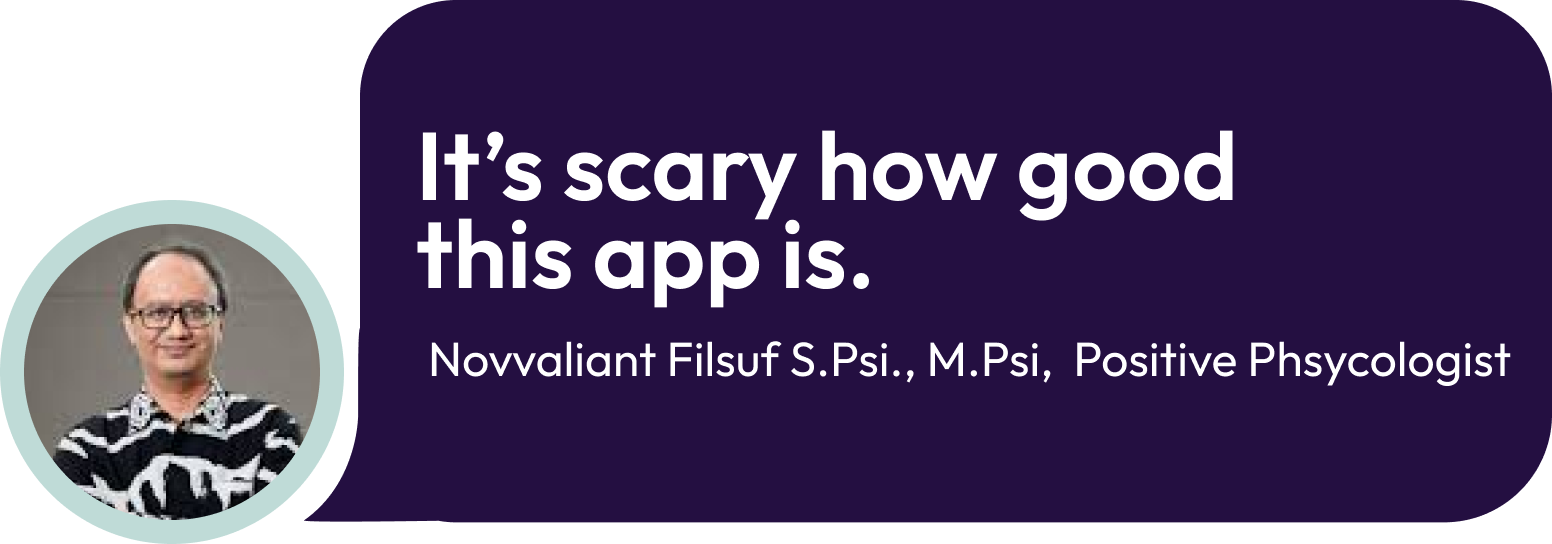
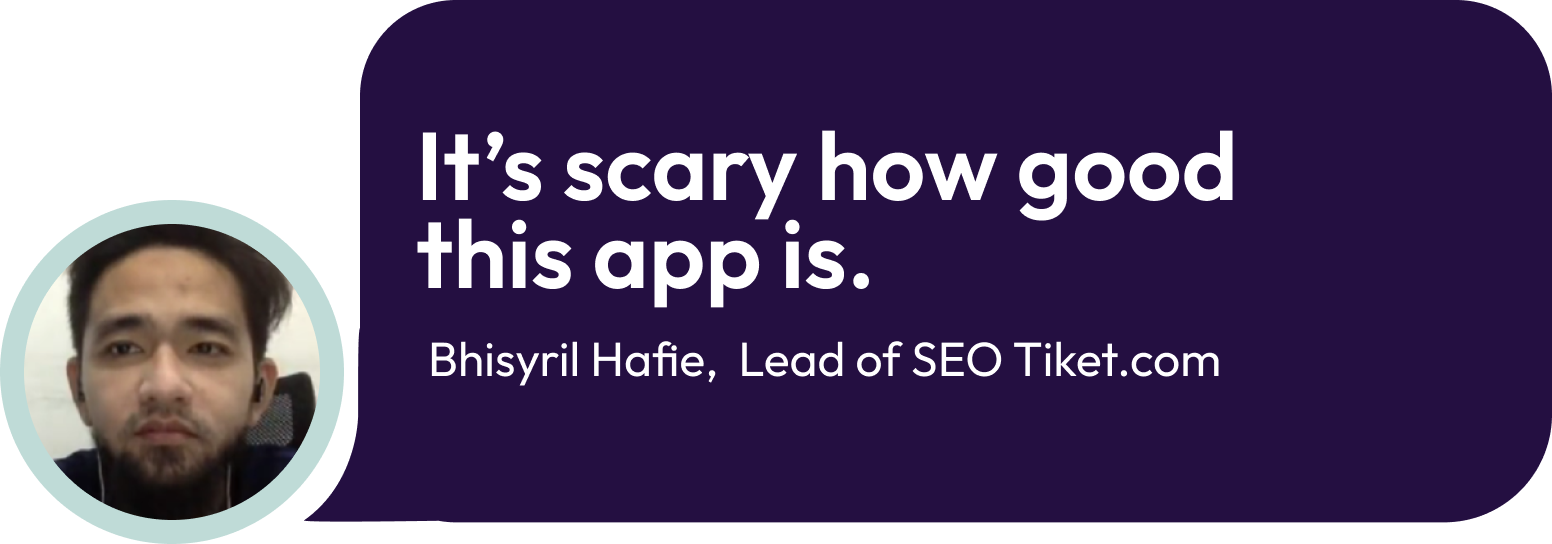
feat: build website 3

Changed region(s): [[0.0, 0.4062, 0.2165, 0.9688], [0.2784, 0.625, 0.9897, 0.7188]]

diff --git a/src/components/home/OurTheraphy.tsx b/src/components/home/OurTheraphy.tsx
@@ -7,13 +7,13 @@ import Button from "../molecules/Button";
 export default function OurTheraphy() {
   const cardData = [
     {
-      name: "Novvaliant Filsuf",
+      name: "Arief Fahmie",
       title: "Clinical Psychology",
       bgColor: "bg-gray-100",
       image: "photoTheraphy1",
     },
     {
-      name: "Dian Sari",
+      name: "Retno Kumolohadi",
       title: "Developmental Psychology",
       bgColor: "bg-blue-100",
       image: "photoTheraphy2",
@@ -25,13 +25,13 @@ export default function OurTheraphy() {
       image: "photoTheraphy3",
     },
     {
-      name: "Ahmad Rusdi",
+      name: "Indahria Sulistyarini",
       title: "Family and Marriage Psychology",
       bgColor: "bg-purple-100",
       image: "photoTheraphy4",
     },
     {
-      name: "Sonny Andrianto",
+      name: "Hariz Enggar",
       title: "Health Psychology",
       bgColor: "bg-teal-100",
       image: "photoTheraphy5",
@@ -39,28 +39,28 @@ export default function OurTheraphy() {
   ];
   const cardDataReport = [
     {
-      name: "ADHD",
-      desc: "52%",
+      name: "Stress",
+      desc: "82%",
       bgColor: "bg-gray-100",
     },
     {
       name: "Grief",
-      desc: "52%",
+      desc: "71%",
       bgColor: "bg-blue-100",
     },
     {
       name: "Depression",
-      desc: "63%",
+      desc: "94%",
       bgColor: "bg-orange-100",
     },
     {
       name: "Anxiety",
-      desc: "62%",
+      desc: "92%",
       bgColor: "bg-purple-100",
     },
     {
       name: "Anger",
-      desc: "63%",
+      desc: "76%",
       bgColor: "bg-teal-100",
     },
   ];
@@ -117,7 +117,7 @@ export default function OurTheraphy() {
         data-aos-anchor-placement="top-bottom"
         className=" text-[#5A5A5A] text-[16px] leading-[25px] mt-[2px] mb-[75px] "
       >
-        From 30 users surveyed
+        From 70 users surveyed
       </p>
       <div className="flex justify-center">
         <div className="cxl:flex hidden space-x-6 px-4">

diff --git a/src/components/molecules/BoxPricing.tsx b/src/components/molecules/BoxPricing.tsx
@@ -17,7 +17,7 @@ export default function BoxPricing({active = true, li1, li2, li3, price}:any) {
       </div>
       <div className={`px-[40px] ${active ? "mt-[40px]" : "mt-[60px]"}  `}>
         <h1 className="text-[32px] font-medium text-center mb-[9px] ">
-          Rp. {price}
+          Rp{price}
         </h1>
         <div className="flex justify-start px-[25px] ">
           {active ? (
@@ -36,7 +36,7 @@ export default function BoxPricing({active = true, li1, li2, li3, price}:any) {
           <button
             className={`bg-[#7A54B7] translate-y-0 translate-x-0 hover:translate-y-1 hover:translate-x-1 rounded-[41px] text-white cmd:py-[14px] py-[14px]  text-[18px] mb-6 w-full text-center `}
           >
-            Start Free Trial
+            Join Us
           </button>
         </a>
       </div>

diff --git a/src/components/home/Stories.tsx b/src/components/home/Stories.tsx
@@ -25,7 +25,7 @@ export default function Stories(){
           data-aos-anchor-placement="top-center"
           className="font-medium text-[14px] mt-[20px] leading-[28px] "
         >
-          ⭐ 4.73  ▪ Trusted by 100+ users
+          ⭐ 4.93  ▪ Trusted by 100+ users
         </p>
         <div className=" mt-[64px] flex flex-row justify-center items-center gap-[120px] ">
           <div className="cxl:block hidden">

diff --git a/src/components/home/Header.tsx b/src/components/home/Header.tsx
@@ -189,7 +189,7 @@ export default function Header() {
             />
             <div className="backdrop-blur-md bg-white/30 py-[4px] px-[12px] rounded-[27px] ">
               <h1 className="text-[14px] text-white">
-                ⭐ 4.73 ▪ Trusted by 100+ users
+                ⭐ 4.93 ▪ Trusted by 100+ users
               </h1>
             </div>
           </div>
